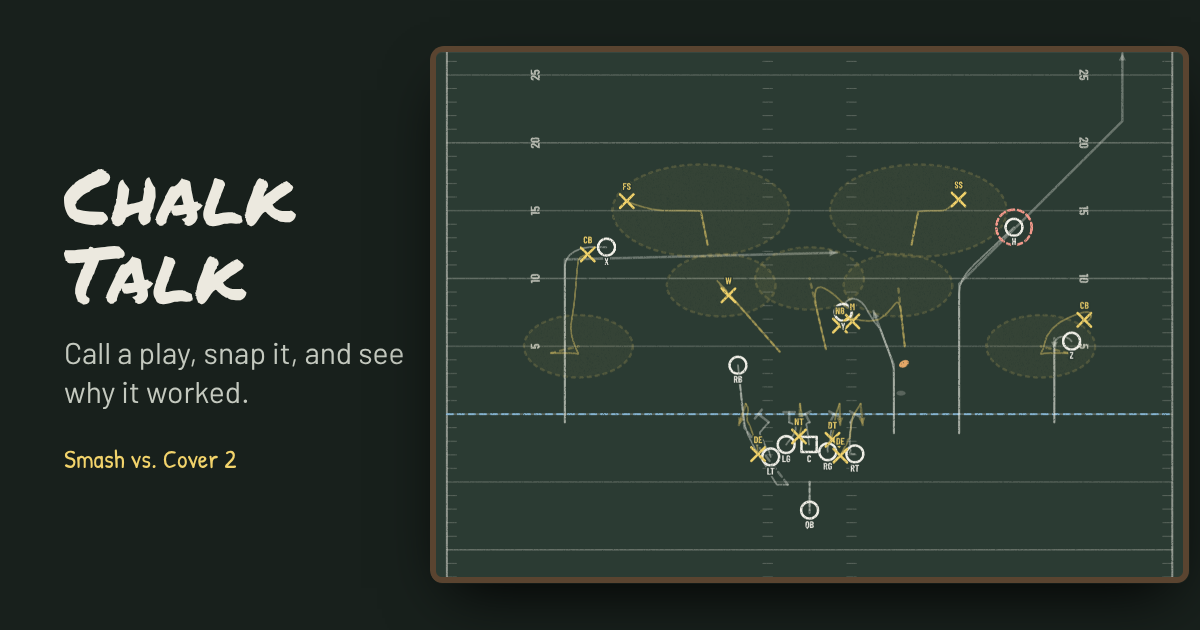
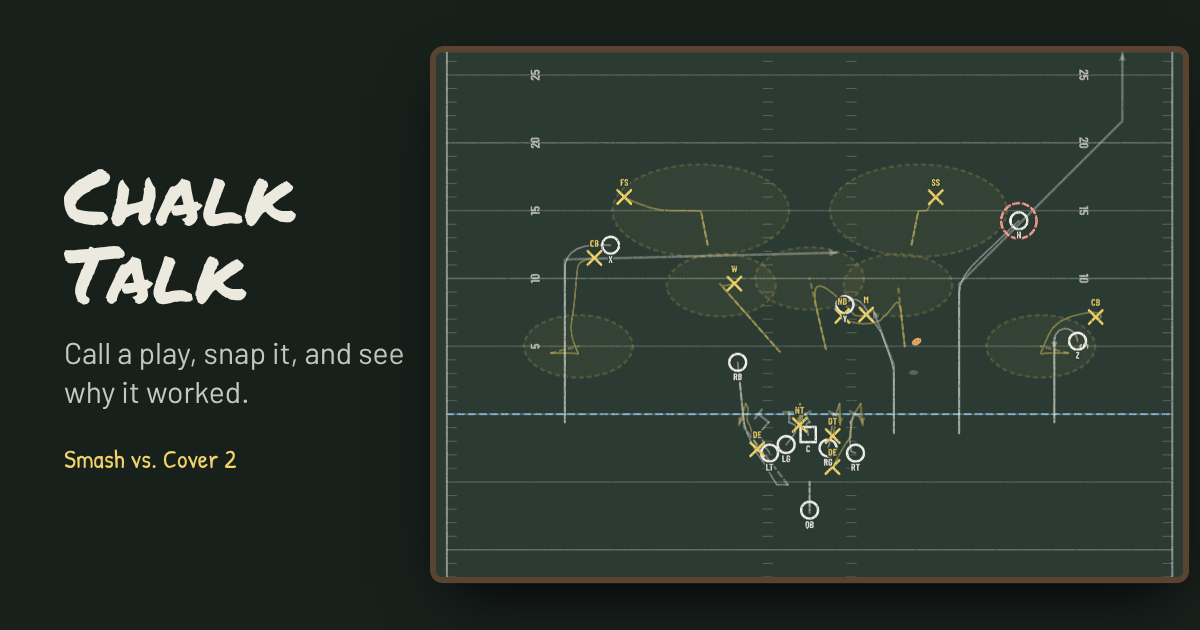
Reads: NFL timing on five-step and play-action drops
On a five-step drop the quarterback started reading 1.05 s after the
snap from the shotgun (1.45 s under center, 1.5 and 1.85 s after a
play-action fake), and counted a route ready the moment the receiver
reached his break, so he threw before routes had come out of their
cuts. For "Give the quarterback NFL time to throw": on those drops he
now starts reading half a second later (1.55 and 1.95 s, 2.0 and 2.35 s
after a fake), and a route that breaks is ready only once he is a yard
along the new line out of it, or, on one that stops and turns back (a
hitch, a curl, a sit), once he has stopped; how long he holds it
before throwing it away moves back the same half second. Slant-Flat's
quick drop and the screen keep their timing, and the hot throw comes
first whatever the drop. Over three seed sets (19,008 snaps), measured
with every other change in this round: sacks go from 2.8-3.2% of
dropbacks to 4.3-4.6% (the stop line was one in fifteen, 6.7%),
completion from 65.8-67.1% to 66.6-68.1% (it was to stay above about
55%), interceptions from 1.7-1.8% to 1.4-1.7%, and the average time to
the throw on five-step and play-action plays from 1.8-2.4 s to 2.1-2.7
s (NFL 2023: 2.8 s, Next Gen Stats via nflverse). Flood against Cover
3 goes from 6.3 to 11.5 yards a dropback and the Play-Action Shot from
9.1-12.2 to 11.5-14.9 against every coverage; Four Verticals against
Cover 3 falls from 11.4 to 7.8. A new test holds the timing. The
[…]

diff --git a/js/sim.js b/js/sim.js
@@ -303,7 +303,10 @@ function assignOffense(S) {
   };
   QB.path = drops[play.drop];
   QB.job = { kind: 'qb' };
-  S.readAt = { quick: under ? 0.75 : 0.55, five: under ? 1.45 : 1.05, pa: under ? 1.85 : 1.5, screen: 1.75 }[play.drop];
+  // When he starts reading. The quick drop gets the ball out at once and the screen waits for the back; on a five-step
+  // drop, or after a play-action fake, he takes his drop and lets the routes get to their breaks, the timing of an NFL
+  // dropback (Next Gen Stats: 2.8 seconds from snap to throw on average in 2023).
+  S.readAt = { quick: under ? 0.75 : 0.55, five: under ? 1.95 : 1.55, pa: under ? 2.35 : 2.0, screen: 1.75 }[play.drop];
   S.dwell = play.drop === 'quick' ? 0.32 : 0.5;
   if (play.drop === 'pa') {
     S.fakeEnd = under ? 0.85 : 0.65;
@@ -313,7 +316,7 @@ function assignOffense(S) {
   passPro(S);
   // His reads, from what's left after the protection: a back who stays in to block isn't one.
   S.reads = play.reads.map(k => S.keys[k]).filter(r => r && r.job.kind === 'route');
-  S.hold = { quick: 2.4, five: 3.6, pa: 3.9, screen: 2.6 }[play.drop];
+  S.hold = { quick: 2.4, five: 4.1, pa: 4.4, screen: 2.6 }[play.drop];
 }
 
 // Pass protection: every rusher is somebody's if there are the men for it. The line takes the rushers nearest them,
@@ -795,10 +798,20 @@ function readNote(S, k) {
   return `read ${k + 1}, with ${passed.length === k ? 'the first' : `${COUNT[passed.length]} of the first`} ${COUNT[k]} covered`;
 }
 
+// Whether a route has got far enough to throw to: so many yards up the field, or to its break. On a five-step drop or
+// after a fake, the break has to be finished: he's a yard on along the new line out of it, or, on a route that stops
+// and turns back (a hitch, a curl, a sit), he has stopped.
 function isReady(S, r) {
   const R = ROUTES[r.job.route];
   if (S.t < (r.job.delay || 0) + 0.25) return false;
-  return R.readyY ? r.y - r.y0 >= R.readyY : r.wp >= (R.ready ?? 1);
+  if (R.readyY) return r.y - r.y0 >= R.readyY;
+  const k = R.ready ?? 1;
+  if (r.wp < k) return false;
+  if (S.play.drop !== 'five' && S.play.drop !== 'pa') return true;
+  if (R.settle && r.wp >= r.path.length) return r.vy < 0.6;
+  if (r.wp > k || !r.path[k]) return true;
+  const a = r.path[k - 1], b = r.path[k], leg = hyp(b.x - a.x, b.y - a.y), [ux, uy] = unit(b.x - a.x, b.y - a.y);
+  return (r.x - a.x) * ux + (r.y - a.y) * uy >= Math.min(1, 0.8 * leg);
 }
 
 function bestWindow(S) {

diff --git a/sw.js b/sw.js
@@ -8,7 +8,7 @@
 // fingerprint of every file in SHELL: change any of them and test/e2e.mjs fails until FILES is changed to match (it
 // says what to), which changes this file, so every copy is made whole again at once.
 const CACHE = 'chalk-talk-v1'; // bump the number when the file list changes
-const FILES = 'b833b282'; // test/e2e.mjs checks this
+const FILES = '2014e60d'; // test/e2e.mjs checks this
 const SHELL = [
   './', 'index.html', 'icon.svg', 'manifest.webmanifest', 'css/app.css',
   'js/app.js', 'js/sim.js', 'js/board.js', 'js/playbook.js', 'js/rng.js',
